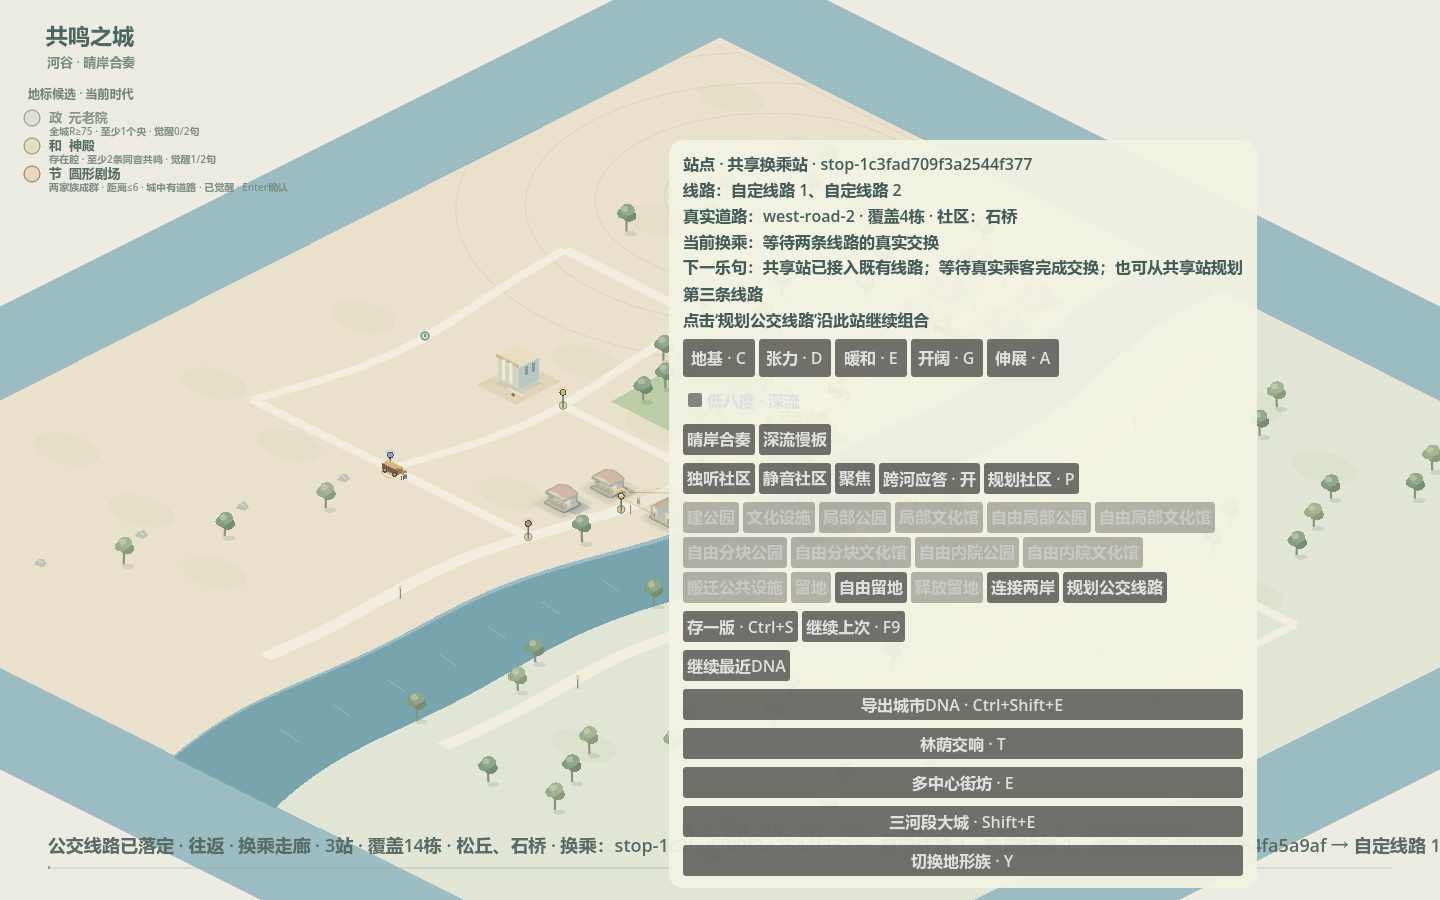
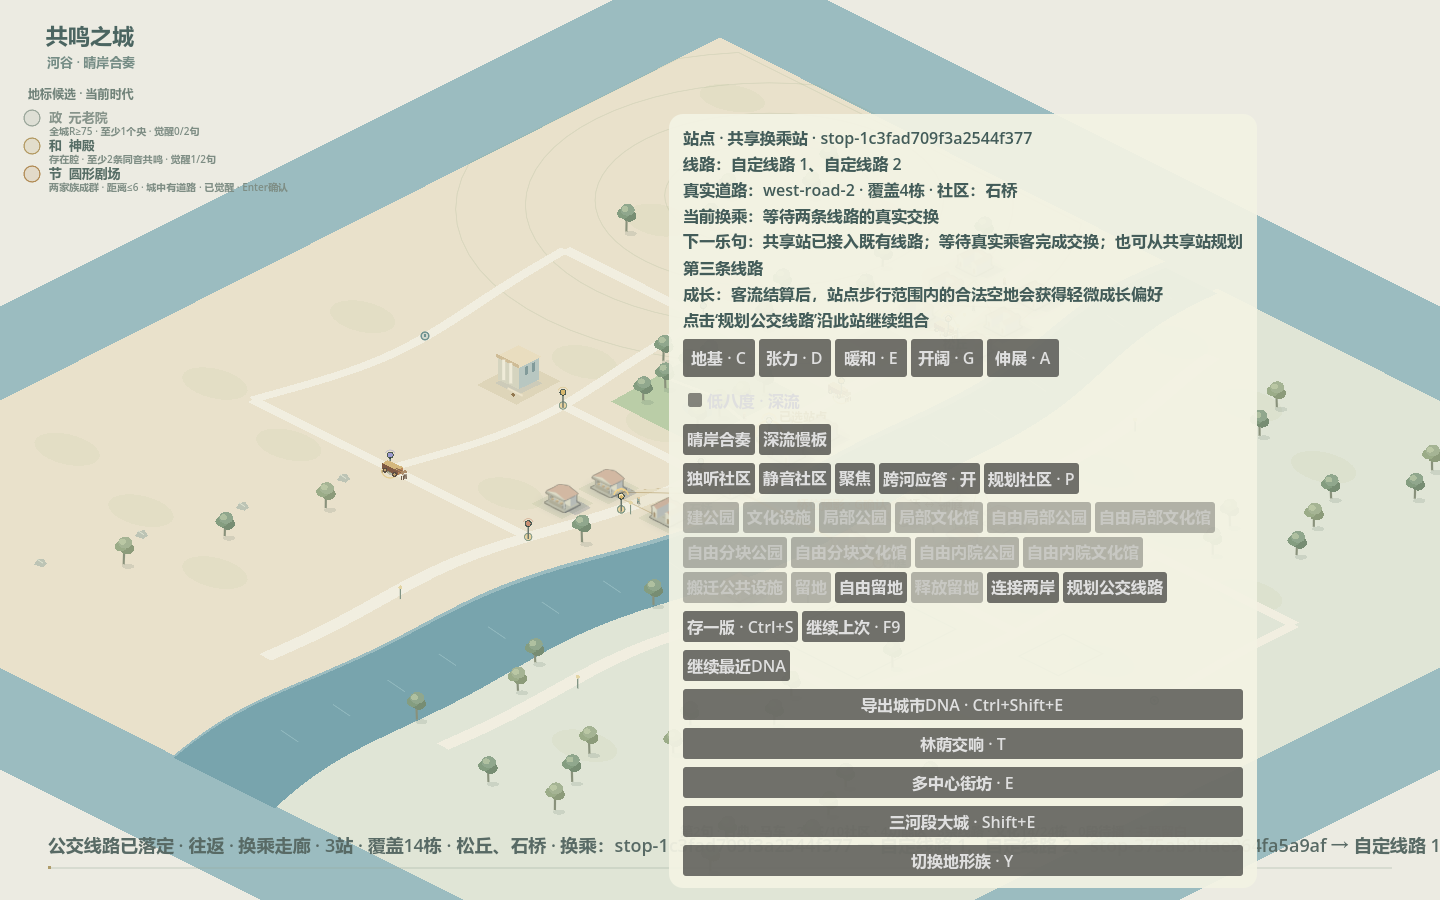
feat: connect transit demand to city growth

Changed region(s): [[0.4688, 0.1244, 0.875, 0.3422]]

diff --git a/文档/19_城市生成管线.md b/文档/19_城市生成管线.md
@@ -342,6 +342,8 @@ on_city_tick(player_intent):
 
 第166轮补充 authored 多线路合同：`coverage_summary()` 以稳定站点记录为权威，预览线路在已有一条线路的站点上生成 `transfer_stop_ids` 与既有 `line_ids`，落定线路则只有在站点实际拥有两条以上线路时才标记 `route_role: 换乘走廊`。`line_contract()`、运行线路、事件和快照共同保存 `line_ids`、`transfer_stop_ids`、`coverage` 与 `route_role`；旧存档缺字段时按原线路/站点重新派生。UI 预影将共享站标成“换”，展示既有线路名称和下一乐句提示。换乘客流沿现有车辆目标站和站点交换记录归集，`transfer_visits`/`transfer_qualified` 只作为 `music_feedback` 元数据进入既有节奏资格，不创建新的 RenderVoice 或额外 PCM 层。
 
+第168轮把已提交的站点需求接到同一条空间→成长→音乐反馈链：`_transit_growth_bonus()` 只对真实站点步行范围内、已经通过道路/地形/占地合法性检查的候选增加有限需求偏好，需求在乐句边界归集前不生效；换乘站的额外偏好仍受独立上限约束，不形成全城增益。`transit_music_feedback()`/`next_action` 同时提供 `growth_action`、`growth_demand_peak` 与 `growth_hint`，明确“附近合法空地下一句优先成长”，并保留既有 `pulse`/`pulse_dense` 资格和声部预算。多线路功能区按“继续组合 > 观察换乘 > 等待客流”聚合 `next_action`，并合并全部相关 `line_ids`、`transfer_stop_ids` 与最强成长提示，避免最后一条线路覆盖已有真实交换状态。该字段只解释可执行的成长机会，不代替玩家的站点规划、社区章程或音级选择。
+
 显示绘制分为保留地形、实时流水、保留城市地面和动态建筑/操作层。保留层缓存本地投影和绘制命令，平移只改共享变换，缩放仅更新屏幕固定线宽；地形身份与几何变化更新地形层，实际可听城身份/乐句触发城市地面六部分的精确依赖比较，只有道路、中心、绿廊、公共设施、占地或庭院街墙实际绘制内容改变才更新对应CanvasItem；地形变化全量失效，公共描边依赖缩放。绘制顺序与旧整层相同，投影只留活跃几何，黑屏恢复由引擎自动重绘。社区名称、地标候选与容量摘要按同一可听城缓存，流水/成长动画继续按音频帧运行；显示缓存不进入WorldSnapshot/DNA，不消耗正式随机流。
 
 移动体道路接入缓存区域候选超集，不量化位置或缓存每个移动坐标的结果；仍按精确最近点、原始道路段顺序、同距容差和水体阻隔选择。候选只读，拓扑变化失效，工作线程持有独占缓存容器；远离道路沿原扩大查询。路口代理裁剪只能提前排除不满足既有距离/优先级条件的对象，不能省略邻近冲突。站牌/灯/公共建筑小景可保留绘制命令，揭示透明度、树风和移动体继续由实际可听帧更新。

diff --git a/PROJECT.md b/PROJECT.md
@@ -1,5 +1,15 @@
 # 共鸣之城：当前项目状态
 
+## 2026-10-11 当前裁定（第168轮）
+
+共享站现在有真实窗口可操作证据：生产 Demo 在 OpenGL/NVIDIA 窗口中用真实线路和站点结算，悬停能看见站点与下一乐句，点击共享站打开上下文，显示两条线路、真实道路、换乘等待、下一条线路和“附近合法空地下一句优先成长”；点击规划按钮会把权威站点预填为新线路首站。截图见[共享站窗口](验证记录/round168_共享站窗口/station_context_live.png)，脚本用直接边界结算缩短等待，不替代真人长时听感。
+
+已提交的站点需求现在参与同一条空间→成长→音乐反馈链：只对真实站点步行范围内、已经通过道路/地形/占地合法性检查的候选提供受限成长偏好，边界前待播客流不生效，换乘偏好有独立上限。线路反馈带 `growth_action`/`growth_hint`；多线路功能区按“继续组合 > 观察换乘 > 等待客流”聚合下一行动，并合并全部线路与换乘站身份，避免最后一条线路覆盖更强状态。所有变化仍是元数据和成长排序，不新增声部或突破70个 RenderVoice。
+
+验证：`tests/round168_station_interaction_demo_live.gd` 20/20（真实 OpenGL API 3.3 NVIDIA RTX 5070 Ti）、`round168_transit_growth_demand.gd` 15项、`round168_transit_next_action_aggregation.gd` 23项通过；Round167 音频/City DNA、Round166 换乘合同和 Round164 保存/音频回归继续通过。生成的失败 headless 窗口尝试没有作为证据，当前证据来自无头后端测试和真实窗口命令。
+
+备份：`codex/backup-before-round168`（基于 `99a5a2e`）。下一步做真人站点操作、长时听感和需求驱动成长的实际平衡复核，再推进更大范围的社区经营连接。
+
 ## 2026-10-11 当前裁定（第167轮）
 
 共享公交站现在是可继续操作的城市音乐入口：悬停和点击使用同一份权威站点反馈，显示线路名称、真实道路、覆盖社区、已发生或等待中的客流交换和下一行动；点击“规划公交线路”会把该稳定站点预填为新线路首站。单线路提示等待真实客流，共享站提示观察换乘；真实乘客交换在边界归集后，提示才变为“继续组合线路”，并保留既有 `line_ids`、`transfer_stop_ids` 和 `pulse`/`pulse_dense` 条件。功能区、事件和快照读取同一 `next_action` 合同，不新增声部或突破70个 RenderVoice。

diff --git a/文档/Demo快速开始.md b/文档/Demo快速开始.md
@@ -38,6 +38,10 @@
 
 第167轮把共享站接成下一步操作：悬停站牌会显示线路、真实道路、覆盖社区、当前客流交换状态和下一行动；左键点击站点打开上下文，选择“规划公交线路”会把该站带入为新线路第一站，继续沿真实道路加站。单线路先等待真实客流，共享站先观察换乘；边界确认真实乘客交换后，提示变为可从共享站继续组合第三条线路。站点点击与悬停读取同一权威反馈，City DNA/快照保留作者站点、线路、客流记忆和待播交换。
 
+第168轮新增空间成长因果：站点上下文的“成长”行会说明客流结算后，站点步行范围内的合法空地如何获得轻微成长偏好；已提交需求越高，附近合法候选的成长排序越靠前，换乘站有独立上限。边界前的待播客流不提前影响成长，也不会绕过道路、地形、占地或音级条件。多线路功能区会保留最强的下一行动和全部相关线路/换乘站，真实换乘后仍提示继续组合。
+
+真实窗口证据见[共享站窗口](../验证记录/round168_共享站窗口/station_context_live.png)：悬停、点击上下文、两条线路、换乘等待、成长提示和规划按钮预填均在 OpenGL/NVIDIA 窗口中通过。该脚本直接结算边界以稳定截图，完整真人长时客流和听感仍需试玩。
+
 第161轮新增“自由分块公园/自由分块文化馆”：点选留地后左键逐点绘制第一块，按 Tab 完成当前块，再绘制下一块，Enter 一次提交全部；地图同时显示所有目标组件、真实入口道路、目标社区和剩余留地。每块至少三个点，组件必须彼此分离并完整落在原留地内；组件重叠或接边、自交会拒绝；带内院目标使用下述专用入口。单组件自由局部入口、旧 `polygon` 存档和 Ctrl+S/F9/City DNA 继续链保持兼容。
 
 第162轮新增“自由内院公园/自由内院文化馆”：点选留地，左键画出外环，按 Tab 完成外环，再在里面绘制至少一处内院，Enter 一起提交。Tab 可收束当前内院并继续绘制下一处；Esc/右键取消。内院须严格在外环内，不能自交、相互重叠或接边。下一乐句公建沿外环落成，内院保持可再次点选、局部兑现或释放的留地。分块公建的全部地面与摆件均可见；公共菜单自动换行，当前未完成的组件不会被 Enter 丢弃。
